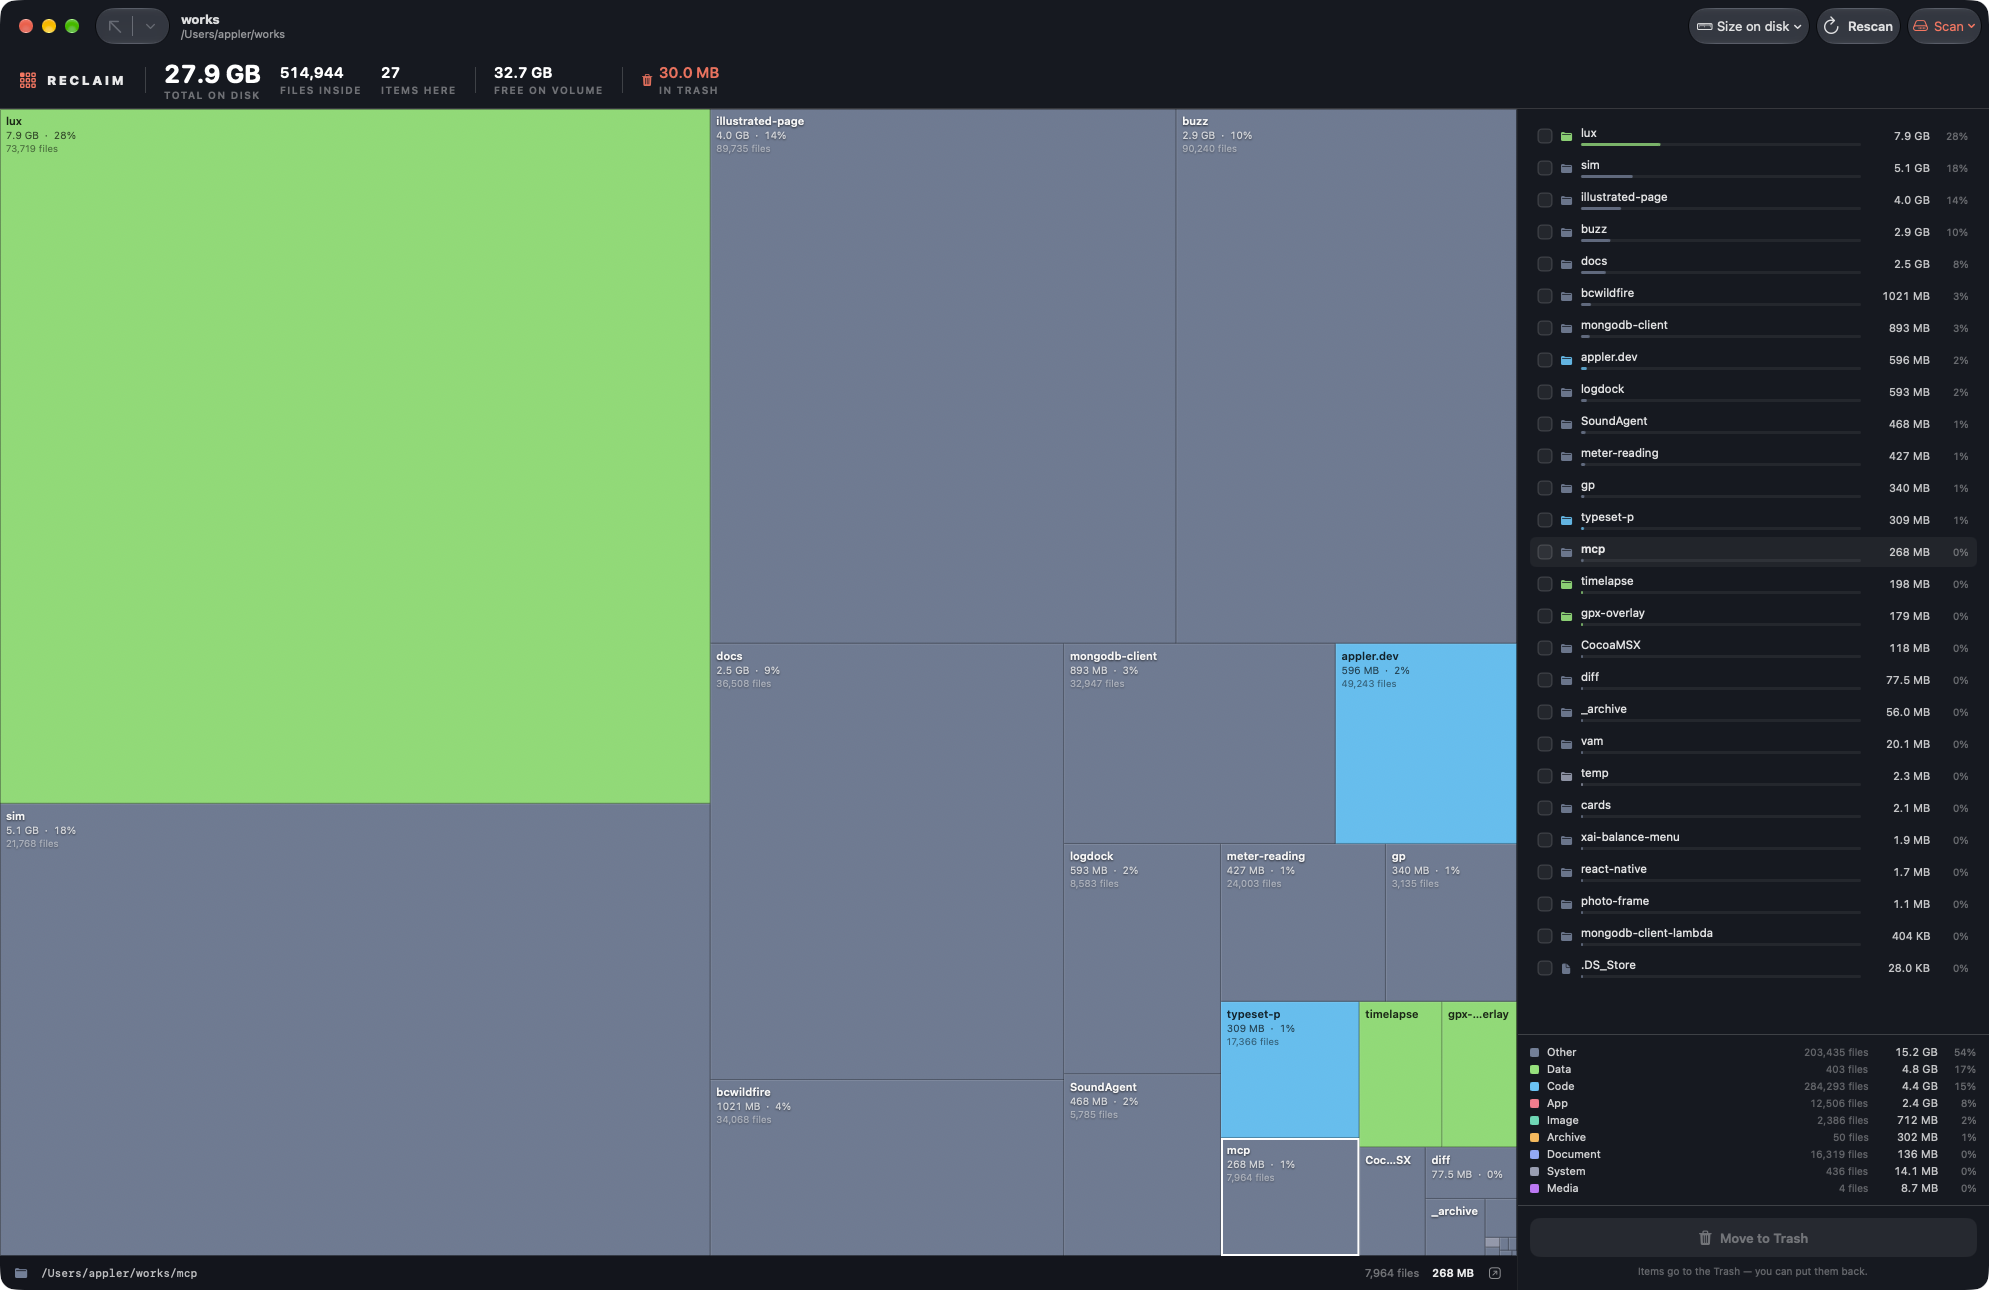
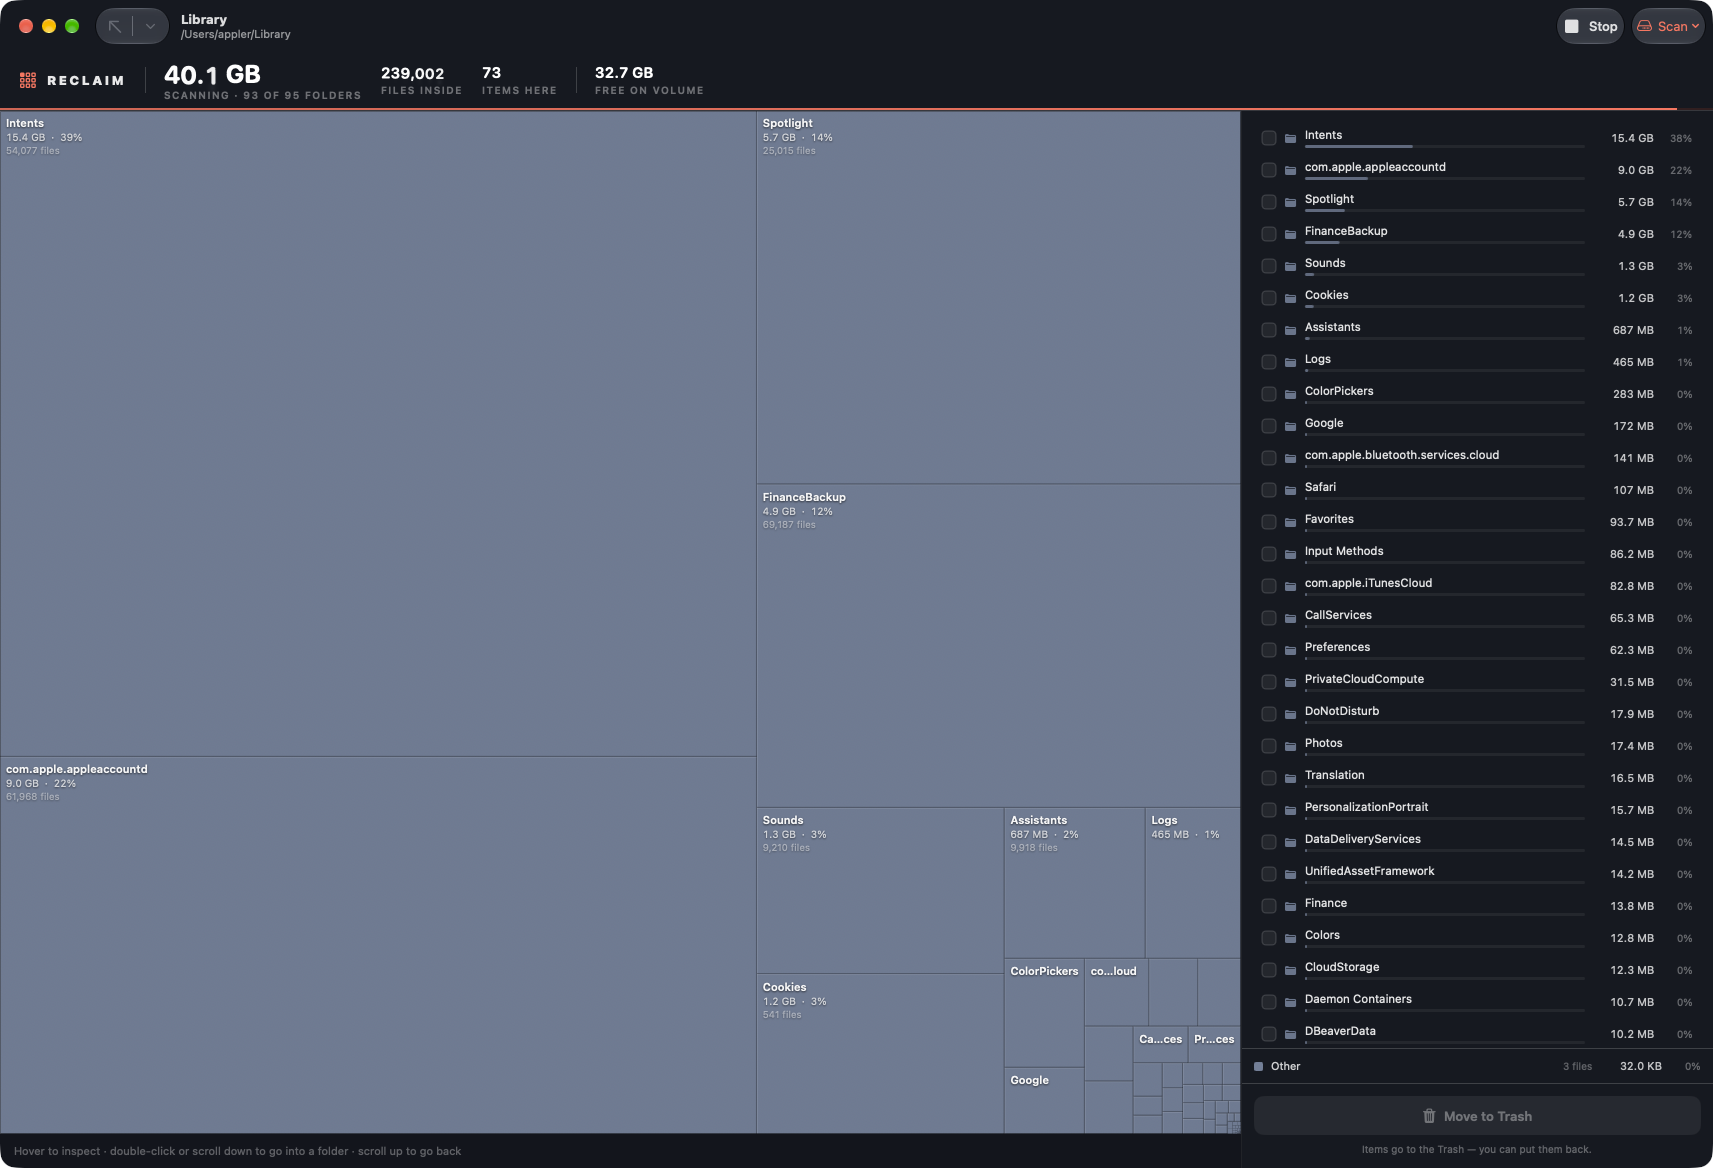
feat(reclaim): show how far a scan has got
A live map says a scan is running but not how much is left, and the moment it
finished was easy to miss. The header caption now counts folders — "scanning ·
93 of 95 folders" — with a hairline progress bar under it that fills as they
complete and disappears when the scan ends, leaving the caption to switch back
to "total on disk".

Bytes cannot give a fraction, since nothing knows the total until the walk is
over. Whole top-level folders can: the work queue now tracks outstanding jobs per
branch and reports a branch as done when its last one finishes.

Three tests: a finished scan reads as finished, sampled progress never goes
backwards, and a directory of nothing but files reports no progress rather than
dividing by zero.

diff --git a/Sources/DiskMap/Scanner.swift b/Sources/DiskMap/Scanner.swift
@@ -31,6 +31,11 @@ final class ScanSession: @unchecked Sendable {
     /// tiles are the root's children, and these are their sizes so far.
     private var branchBytes: [UInt64] = []
     private var branchFiles: [Int] = []
+    /// How many top-level directories the scan has finished, out of how many.
+    /// Byte counts cannot give a fraction — nothing knows the total until the
+    /// walk is over — but "34 of 76 folders" is both true and steady.
+    private var branchesToComplete = 0
+    private var branchesCompleted = 0
 
     var onProgress: ((ScanProgress) -> Void)?
 
@@ -39,6 +44,22 @@ final class ScanSession: @unchecked Sendable {
         branchBytes = [UInt64](repeating: 0, count: count)
         branchFiles = [Int](repeating: 0, count: count)
         lock.unlock()
+    }
+
+    func setBranchesToComplete(_ count: Int) {
+        lock.lock(); branchesToComplete = count; lock.unlock()
+    }
+
+    func markBranchComplete() {
+        lock.lock(); branchesCompleted += 1; lock.unlock()
+    }
+
+    /// Directories finished, total to finish, and the fraction between them.
+    func completion() -> (done: Int, total: Int, fraction: Double) {
+        lock.lock(); defer { lock.unlock() }
+        guard branchesToComplete > 0 else { return (0, 0, 0) }
+        return (branchesCompleted, branchesToComplete,
+                Double(branchesCompleted) / Double(branchesToComplete))
     }
 
     /// Bytes and file counts per top-level branch, in the order prepared.
@@ -93,10 +114,16 @@ private final class DirectoryQueue: @unchecked Sendable {
     private var stack: [Job] = []
     private var busy = 0
     private var finished = false
+    /// Outstanding jobs per top-level branch, so a branch can be called done.
+    private var pending: [Int: Int] = [:]
+    var onBranchFinished: ((Int) -> Void)?
 
     func push(_ jobs: [Job]) {
         guard !jobs.isEmpty else { return }
         lock.lock()
+        for job in jobs where job.branch >= 0 {
+            pending[job.branch, default: 0] += 1
+        }
         stack.append(contentsOf: jobs)
         lock.broadcast()
         lock.unlock()
@@ -121,14 +148,21 @@ private final class DirectoryQueue: @unchecked Sendable {
         }
     }
 
-    func complete() {
+    func complete(branch: Int = -1) {
         lock.lock()
         busy -= 1
+        var branchFinished = false
+        if branch >= 0, let outstanding = pending[branch] {
+            let left = outstanding - 1
+            pending[branch] = left
+            branchFinished = left == 0
+        }
         if busy == 0 && stack.isEmpty {
             finished = true
             lock.broadcast()
         }
         lock.unlock()
+        if branchFinished { onBranchFinished?(branch) }
     }
 
     func abort() {
@@ -177,19 +211,25 @@ enum Scanner {
         }
 
         let queue = DirectoryQueue()
+        queue.onBranchFinished = { _ in session.markBranchComplete() }
+        session.setBranchesToComplete(topLevel.count)
         queue.push(topLevel)
 
         let group = DispatchGroup()
         for _ in 0 ..< options.workers {
             DispatchQueue.global(qos: .userInitiated).async(group: group) {
                 while let job = queue.take() {
-                    if session.isCancelled { queue.abort(); queue.complete(); return }
+                    if session.isCancelled {
+                        queue.abort()
+                        queue.complete(branch: job.branch)
+                        return
+                    }
                     let subdirectories = read(job: job,
                                               rootDev: st.st_dev,
                                               options: options,
                                               session: session)
                     queue.push(subdirectories)
-                    queue.complete()
+                    queue.complete(branch: job.branch)
                 }
             }
         }

diff --git a/Sources/DiskMap/ContentView.swift b/Sources/DiskMap/ContentView.swift
@@ -20,6 +20,7 @@ struct ContentView: View {
             Color.ink.ignoresSafeArea()
             VStack(spacing: 0) {
                 HeaderBar(model: model)
+                ScanProgressBar(model: model)
                 Divider().overlay(Color.hairline)
                 HStack(spacing: 0) {
                     MapPane(model: model, isResizing: draggingSidebarWidth != nil)
@@ -232,7 +233,9 @@ private struct HeaderBar: View {
                     }
                     // No file count here: "files inside" sits right beside it.
                     Overline(text: model.isScanning
-                             ? "Scanning…"
+                             ? (model.scanCompletion.total > 0
+                                ? "Scanning · \(model.scanCompletion.done) of \(model.scanCompletion.total) folders"
+                                : "Scanning…")
                              : (model.zoomRoot === model.scanRoot
                                 ? "Total \(model.measure == .physical ? "on disk" : "size")"
                                 : "This folder"))
@@ -932,5 +935,31 @@ private struct ShareBar: Shape {
         return Path(roundedRect: CGRect(x: rect.minX, y: rect.minY,
                                         width: width, height: rect.height),
                     cornerRadius: 2)
+    }
+}
+
+
+/// A hairline that fills as the scan works through the top-level folders, and
+/// is simply absent the rest of the time — the clearest signal that a scan is
+/// still running, and that it has finished.
+private struct ScanProgressBar: View {
+    @ObservedObject var model: AppModel
+
+    var body: some View {
+        ZStack(alignment: .leading) {
+            if model.isScanning {
+                Rectangle()
+                    .fill(Color.ember.opacity(0.15))
+                GeometryReader { geometry in
+                    Rectangle()
+                        .fill(LinearGradient(colors: [Color.ember.opacity(0.8), Color.ember],
+                                             startPoint: .leading, endPoint: .trailing))
+                        .frame(width: max(2, geometry.size.width * model.scanCompletion.fraction))
+                        .animation(.easeOut(duration: 0.2), value: model.scanCompletion.fraction)
+                }
+            }
+        }
+        .frame(height: model.isScanning ? 2 : 0)
+        .animation(.easeOut(duration: 0.25), value: model.isScanning)
     }
 }

diff --git a/Tests/ReclaimTests/LiveScanTests.swift b/Tests/ReclaimTests/LiveScanTests.swift
@@ -129,3 +129,61 @@ extension LiveScanTests {
         }
     }
 }
+
+@Suite("Scan progress")
+struct ScanProgressTests {
+    private func fixture() throws -> Fixture {
+        let fixture = try Fixture()
+        for branch in 0 ..< 5 {
+            for file in 0 ..< 20 {
+                try fixture.file("branch-\(branch)/nested/file-\(file).bin", bytes: 2_000)
+            }
+        }
+        return fixture
+    }
+
+    @Test func progressReachesEveryFolderByTheEnd() throws {
+        let fixture = try fixture()
+        defer { fixture.cleanUp() }
+
+        let session = ScanSession()
+        _ = Scanner.scan(url: fixture.root, options: ScanOptions(), session: session)
+
+        let completion = session.completion()
+        #expect(completion.total == 5, "one branch per top-level folder")
+        #expect(completion.done == completion.total)
+        #expect(completion.fraction == 1.0, "a finished scan must read as finished")
+    }
+
+    @Test func progressOnlyMovesForward() throws {
+        let fixture = try fixture()
+        defer { fixture.cleanUp() }
+
+        let session = ScanSession()
+        var samples: [Double] = []
+        let sampler = Thread {
+            for _ in 0 ..< 500 {
+                samples.append(session.completion().fraction)
+                usleep(200)
+            }
+        }
+        sampler.start()
+        _ = Scanner.scan(url: fixture.root, options: ScanOptions(), session: session)
+        while !sampler.isFinished { usleep(500) }
+
+        #expect(samples == samples.sorted(), "the bar must never go backwards")
+        #expect(samples.allSatisfy { $0 >= 0 && $0 <= 1 })
+    }
+
+    @Test func nothingToScanReportsNoProgressRatherThanDividingByZero() throws {
+        let fixture = try Fixture()
+        defer { fixture.cleanUp() }
+        try fixture.file("only-a-file.bin", bytes: 1_000)
+
+        let session = ScanSession()
+        _ = Scanner.scan(url: fixture.root, options: ScanOptions(), session: session)
+        let completion = session.completion()
+        #expect(completion.total == 0)
+        #expect(completion.fraction == 0)
+    }
+}

diff --git a/Sources/DiskMap/AppModel.swift b/Sources/DiskMap/AppModel.swift
@@ -51,6 +51,8 @@ final class AppModel: ObservableObject {
     @Published var hasFullDiskAccess = false
     /// True while a scan is running, including once its first level is on screen.
     @Published var isScanning = false
+    /// Top-level folders finished, of how many, and the fraction between them.
+    @Published var scanCompletion: (done: Int, total: Int, fraction: Double) = (0, 0, 0)
 
     private var session: ScanSession?
     /// Ticks the partial sizes into the tree while a scan runs.
@@ -248,6 +250,7 @@ final class AppModel: ObservableObject {
                 self.scanRoot = root
                 self.zoomRoot = self.restorePath(from: root)
                 self.isScanning = false
+                self.scanCompletion = (0, 0, 0)
                 self.phase = .ready
                 self.refreshBreakdown()
                 self.treeRevision += 1
@@ -296,6 +299,7 @@ final class AppModel: ObservableObject {
     /// Copies the scanner's running totals onto the partial tree, largest first
     /// so the map keeps its usual ordering as it fills in.
     private func applyBranchTotals(from session: ScanSession) {
+        scanCompletion = session.completion()
         guard isScanning, let root = scanRoot, root === zoomRoot else { return }
         let totals = session.branchTotals()
         guard totals.bytes.count == root.children.count else { return }
